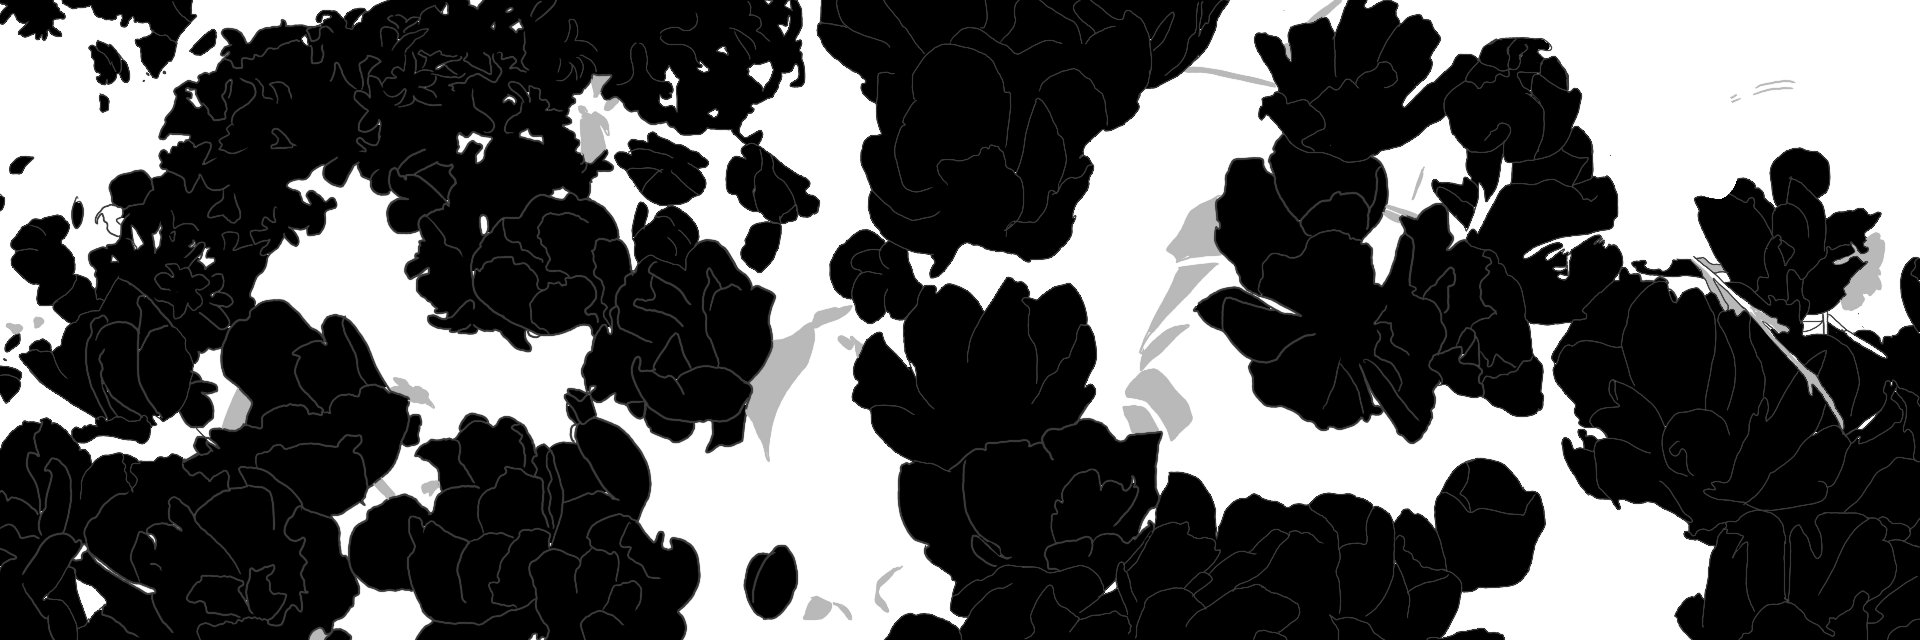
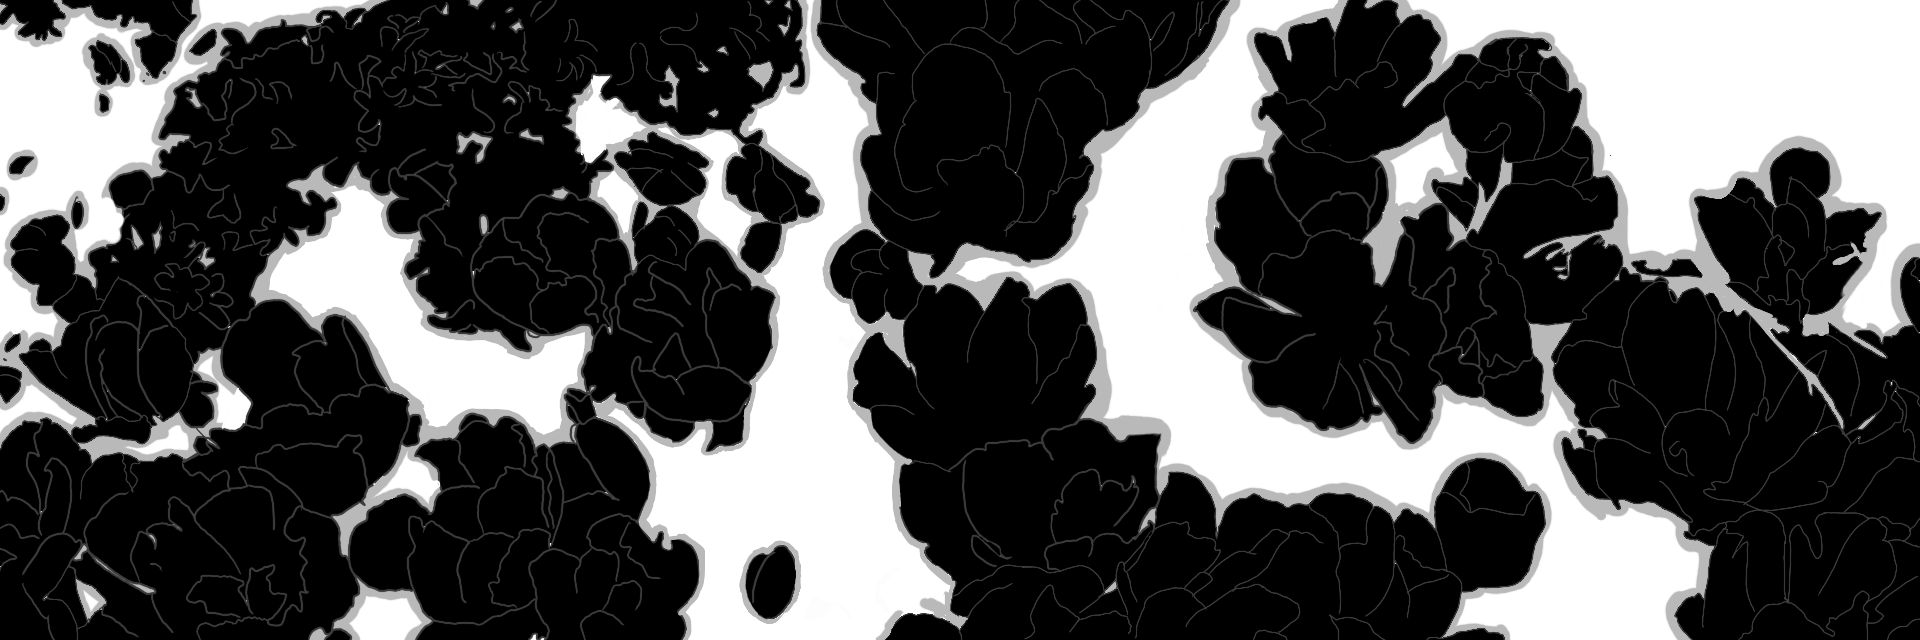
Updated README, mask_1, output_1, sketch

diff --git a/sketch.js b/sketch.js
@@ -26,7 +26,7 @@ function setup () {
 
 function draw () {
 
-    for(let i=0; i<8000;i++) {
+    for(let i=0; i<10000;i++) {
     let x = floor(random(sourceImg.width));
     let y = floor(random(sourceImg.height));
     let pix = sourceImg.get(x, y);
@@ -34,6 +34,8 @@ function draw () {
     fill(pix);
     stroke(pix);
     strokeWeight(3);
+
+  //  console.log(mask[0]);
 
       if(mask[0] == 255) { //White
 
@@ -52,9 +54,15 @@ function draw () {
  }}
       else{
         if(mask[0] > 100 && mask[0] < 250){ //Light Grey
-            noFill();
-            strokeWeight(1.5);
-            arc(x, y, 40, 40, PI, PI + QUARTER_PI);
+          //  noFill();
+          //  stroke(255);
+          //  strokeWeight(1.5);
+          //  arc(x, y, 40, 40, PI, PI + QUARTER_PI);
+          noStroke();
+          fill(50, 135, 168);
+          drawHighlight(x,y,10,10);
+    //      ellipse(x,y,10,10);
+
   }
       else {
         if(mask[0] > 10 && mask[0] < 100){ //Dark Grey
@@ -91,6 +99,22 @@ let pix = sourceImg.get(x, y);
             fill(pix);
             ellipse(x,y,1);
             pop();
+
+  }
+
+  function drawHighlight(x, y) {
+
+    let highX = x;
+    let highY = y;
+
+  for (var j = 0; j < 5; j++){
+    ellipse (highX,highY, 10,10);
+
+    highX = highX + random (-10, 10);
+    highY = highY + random (-10,10);
+
+  }
+
 
   }
 

diff --git a/README.md b/README.md
@@ -1,7 +1,5 @@
 
 ## Creative Coding 2: Custom Pixel
-Today I have worked on refining my mask. I have also decided to outline the edges which give a really subtle change in the flower size. I think I might make some of these lines more bold to give more interest.
-
-I was also considering playing around with the colour of the image however, I think that over editing my images with distract from my theme of showcasing colours and gradients from within the flowers. I think that it is important to not over do it when it is so easy to! 
+Today I was playing around with the layers of the mask to make the flowers stand out more. I have made it blue so its very obvious to see the mask however, I think I overall need to make light grey mask bigger if I want to make the flowers stand out more.
 
 The images above are photos of Keukenhof flower garden in Lisse, Netherlands, algorithmically processed with a lightly modified version of the [p5.js Pointillism example](https://p5js.org/examples/image-pointillism.html). The masks for each photo highlight various objects. Replace this text with your own which explains the source of your photos, masking, and applied algorithm.
